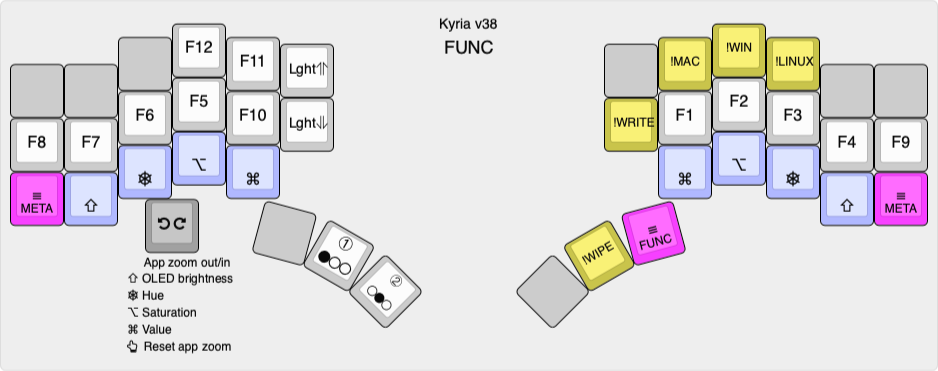
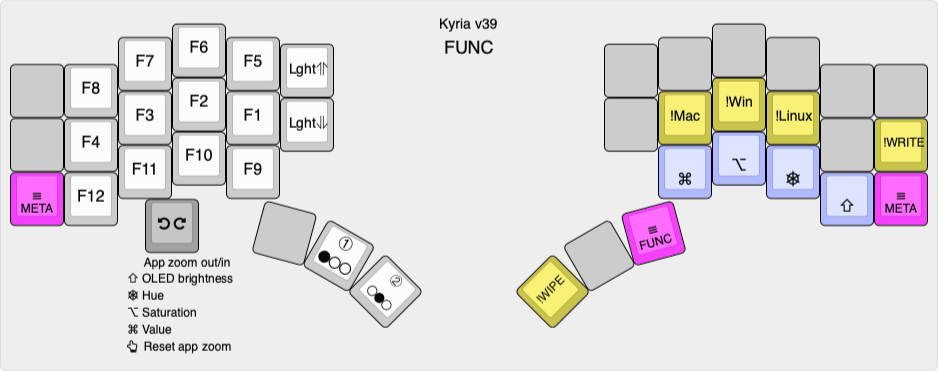
Revised SYMS and FUNC layers

diff --git a/kyria-rsthd-prime/keymap.c b/kyria-rsthd-prime/keymap.c
@@ -63,7 +63,7 @@ const uint16_t PROGMEM keymaps[][MATRIX_ROWS][MATRIX_COLS] = {
  ,-----------------------------------------.                        ,-----------------------------------------.
  | `  ~ |   +  | (  [ |   *  | )  ] |   $  |                        |      | Paste| Copy |  Cut |  All |   #  |
  |------+------+------+------+------+------|                        |------+------+------+------+------+------|
- | 8    | 7  ^ | 6  { | 5  % | 0  } | @  & |                        |  Tab | 1    | 2    | 3    | 4    | 9    |
+ | 9    | 4  ^ | 3  { | 2  % | 1  } | @  & |                        |  Tab | 0    | 5    | 6    | 7    | 8    |
  |------+------+------+------+------+------'                        `------+------+------+------+------+------|
  |   =  |   -  | <  | |   /  | >  ! |                                      |      |      |      |      |  ../ |
  |      |      |      |      |      |                                      |  Cmd |  Alt | Ctrl | Shift|      |
@@ -78,12 +78,12 @@ const uint16_t PROGMEM keymaps[][MATRIX_ROWS][MATRIX_COLS] = {
     [SYMS] = KEY_LAYOUT_stack(
         /* Left hand */
         KC_GRV,      KC_PLUS,       CU_LPRN,  KC_ASTR,       CU_RPRN,  KC_DLR,
-        CU_8,        CU_7,          CU_6,     CU_5,          CU_0,     CU_AT_AMP,
+        CU_9,        CU_4,          CU_3,     CU_2,          CU_1,     CU_AT_AMP,
         CU_EQL_EQL,  CU_MINS_MINS,  CU_LT,    CU_SLSH_SLSH,  CU_GT,
 
         /* Right hand */
                   ___X___,  SC_PASTE,  SC_COPY,  SC_CUT,   SC_SELECT_ALL,  KC_HASH,
-                  KC_TAB,   CU_1,      CU_2,     CU_3,     CU_4,           CU_9,
+                  KC_TAB,   CU_0,      CU_5,     CU_6,     CU_7,           CU_8,
                             KC_RGUI,   KC_RALT,  KC_RCTL,  CU_SHIFT,       CU_DIRUP,
 
         /* Thumbs */
@@ -92,7 +92,6 @@ const uint16_t PROGMEM keymaps[][MATRIX_ROWS][MATRIX_COLS] = {
         /* Encoder button */
         ___X___
     ),
-
 
 /* EDIT
  
@@ -171,33 +170,33 @@ const uint16_t PROGMEM keymaps[][MATRIX_ROWS][MATRIX_COLS] = {
 /* FUNC
 
  ,-----------------------------------------.                        ,-----------------------------------------.
- |      |      |      |  F12 |  F11 |LghtUp|                        |      | !Mac | !Win |!Linux|      |
+ |      |  F8  |  F7  |  F6  |  F5  |LghtUp|                        |      |      |      |      |      |      |
  |------+------+------+------+------+------|                        |------+------+------+------+------+------|
- |  F8  |  F7  |  F6  |  F5  |  F10 |LghtDn|                        |!WRITE|  F1  |  F2  |  F3  |  F4  |  F9  |
+ |      |  F4  |  F3  |  F2  |  F1  |LghtDn|                        |      | !Mac | !Win |!Linux|      |!WRITE|
  |------+------+------+------+------+------'                        `------+------+------+------+------+------|
- |      |      |      |      |      |                                      |      |      |      |      |      |
- | (**) | Shift| Ctrl |  Alt |  Cmd |                                      |  Cmd |  Alt | Ctrl | Shift| (**) |
+ |      |  F12 |  F11 |  F10 |  F9  |                                      |      |      |      |      |      |
+ | (**) |      |      |      |      |                                      |  Cmd |  Alt | Ctrl | Shift| (**) |
  `----------------------------------'                                      `----------------------------------'
 
  .                 ,------.      ,--------------------.  ,--------------------.
- .                 |  Z0  |      |      | Btn1 | Btn2 |  |      | !WIPE|      |
+ .                 |  Z0  |      |      | Btn1 | Btn2 |  | !WIPE|      |      |
  .                 |      |      |      |      |      |  |      |      | (**) |
  .                 `------'      `--------------------'  `--------------------'
  */
 
     [FUNC] = KEY_LAYOUT_stack(
         /* Left hand */
-        ___X___,  ___X___,   ___X___,  KC_F12,   KC_F11,  CU_LGHTUP,
-        KC_F8,    KC_F7,     KC_F6,    KC_F5,    KC_F10,  CU_LGHTDN,
-        _______,  CU_SHIFT,  KC_LCTL,  KC_LALT,  KC_LGUI,
+        ___X___,  KC_F8,     KC_F7,    KC_F6,    KC_F5,  CU_LGHTUP,
+        ___X___,  KC_F4,     KC_F3,    KC_F2,    KC_F1,  CU_LGHTDN,
+        _______,  KC_F12,    KC_F11,   KC_F10,   KC_F9,
 
         /* Right hand */
-                 ___X___,   CU_MACOS,  CU_WINDOWS,  CU_LINUX,  ___X___,   ___X___,
-                 CU_WRITE,  KC_F1,     KC_F2,       KC_F3,     KC_F4,     KC_F9,
+                 ___X___,   ___X___,    ___X___,    ___X___,   ___X___,   ___X___,
+                 ___X___,   CU_MACOS,  CU_WINDOWS,  CU_LINUX,  ___X___,   CU_WRITE,
                             KC_RGUI,   KC_RALT,     KC_RCTL,   CU_SHIFT,  _______,
 
         /* Thumbs */
-        _______, CM_BTN1, CM_BTN2,   ___X___, CU_WIPE, _______,
+        _______, CM_BTN1, CM_BTN2,   CU_WIPE, ___X___, _______,
 
         /* Encoder button */
         SC_APP_ZOOM_RESET
@@ -209,23 +208,23 @@ const uint16_t PROGMEM keymaps[][MATRIX_ROWS][MATRIX_COLS] = {
  ,-----------------------------------------.                        ,-----------------------------------------.
  |      |      |      |      |      |      |                        |      | SL23 | SnapT| SR23 | ZmIn |      |
  |------+------+------+------+------+------|                        |------+------+------+------+------+------|
- |      | SSApp| SSScr| SSWin| SSRgn|      |                        |      | SnapL| SnapC| SnapR| ZmOut|      |
+ |!WRITE| SSApp| SSScr| SSWin| SSRgn|      |                        |      | SnapL| SnapC| SnapR| ZmOut|      |
  |------+------+------+------+------+------'                        `------+------+------+------+------+------|
  |      |      |      |      |      |                                      | SL14 | SnapB| SR14 |  Zm0 |      |
  | (**) | Shift| Ctrl |  Alt |  Cmd |                                      |      |      |      |      | (**) |
- `----------------------------------'                                       `----------------------------------'
+ `----------------------------------'                                      `----------------------------------'
 
  .                 ,------.      ,--------------------.  ,--------------------.
- .                 |      |      |      |      |      |  |      | Btn1 | Btn2 |
+ .                 |      |      |      |      | !WIPE|  |      | Btn1 | Btn2 |
  .                 |      |      | (**) |      |      |  |      |      |      |
  .                 `------'      `--------------------'  `--------------------'
  */
 
     [SNAP] = KEY_LAYOUT_stack(
         /* Left hand */
-        ___X___, ___X___,           ___X___,              ___X___,        ___X___,        ___X___,
-        ___X___, SC_SCREENSHOT_APP, SC_SCREENSHOT_SCREEN, CU_SCRSHOT_WIN, CU_SCRSHOT_RGN, ___X___,
-        _______, CU_SHIFT,          KC_LCTL,              KC_LALT,        KC_LGUI,
+        ___X___,  ___X___,           ___X___,              ___X___,        ___X___,        ___X___,
+        CU_WRITE, SC_SCREENSHOT_APP, SC_SCREENSHOT_SCREEN, CU_SCRSHOT_WIN, CU_SCRSHOT_RGN, ___X___,
+        _______,  CU_SHIFT,          KC_LCTL,              KC_LALT,        KC_LGUI,
 
          /* Right hand */
                  ___X___,  SC_SNAP_LEFTTWOTHIRDS, SC_SNAP_TOP,          SC_SNAP_RIGHTTWOTHIRDS, SC_APP_ZOOM_IN,    ___X___,
@@ -233,7 +232,7 @@ const uint16_t PROGMEM keymaps[][MATRIX_ROWS][MATRIX_COLS] = {
                            SC_SNAP_LEFTQUARTER,   SC_SNAP_BOTTOM,       SC_SNAP_RIGHTQUARTER,   SC_APP_ZOOM_RESET, _______,
 
         /* Thumbs */
-        _______, ___X___, ___X___,   ___X___, CM_BTN1, CM_BTN2,
+        _______, ___X___, CU_WIPE,   ___X___, CM_BTN1, CM_BTN2,
 
         /* Encoder button */
         ___X___

diff --git a/common/shift_defs.h b/common/shift_defs.h
@@ -23,14 +23,14 @@
 
 // Numbers with custom punctuation
 //
-DEFINE_SHIFT( CU_0, KC_0, KC_RCBR )
-DEFINE_SHIFT( CU_1, KC_1, KC_1 )
-DEFINE_SHIFT( CU_2, KC_2, KC_2 )
-DEFINE_SHIFT( CU_3, KC_3, KC_3 )
-DEFINE_SHIFT( CU_4, KC_4, KC_4 )
-DEFINE_SHIFT( CU_5, KC_5, KC_PERC )
-DEFINE_SHIFT( CU_6, KC_6, KC_LCBR )
-DEFINE_SHIFT( CU_7, KC_7, KC_CIRC )
+DEFINE_SHIFT( CU_0, KC_0, KC_0 )
+DEFINE_SHIFT( CU_1, KC_1, KC_RCBR )
+DEFINE_SHIFT( CU_2, KC_2, KC_PERC )
+DEFINE_SHIFT( CU_3, KC_3, KC_LCBR )
+DEFINE_SHIFT( CU_4, KC_4, KC_CIRC )
+DEFINE_SHIFT( CU_5, KC_5, KC_5 )
+DEFINE_SHIFT( CU_6, KC_6, KC_6 )
+DEFINE_SHIFT( CU_7, KC_7, KC_7 )
 DEFINE_SHIFT( CU_8, KC_8, KC_8 )
 DEFINE_SHIFT( CU_9, KC_9, KC_9 )
 
@@ -40,11 +40,11 @@ DEFINE_SHIFT( CU_COMMA_QUES,   KC_COMM, KC_QUES )
 DEFINE_SHIFT( CU_BSPC_DEL,     KC_BSPC, KC_DEL )
 
 // Custom punctuation pairs on syms layer
-DEFINE_SHIFT( CU_LPRN,      KC_LPRN, KC_LBRC )
-DEFINE_SHIFT( CU_RPRN,      KC_RPRN, KC_RBRC )
-DEFINE_SHIFT( CU_LT, KC_LABK,   KC_PIPE )
-DEFINE_SHIFT( CU_GT, KC_RABK,   KC_EXLM )
-DEFINE_SHIFT( CU_AT_AMP,    KC_AT,   KC_AMPR )
+DEFINE_SHIFT( CU_LPRN,   KC_LPRN, KC_LBRC )
+DEFINE_SHIFT( CU_RPRN,   KC_RPRN, KC_RBRC )
+DEFINE_SHIFT( CU_LT,     KC_LABK, KC_PIPE )
+DEFINE_SHIFT( CU_GT,     KC_RABK, KC_EXLM )
+DEFINE_SHIFT( CU_AT_AMP, KC_AT,   KC_AMPR )
 
 // Keys that are the same whether shifted or not
 DEFINE_SHIFT( CU_DOT_DOT,    KC_DOT,  KC_DOT )

diff --git a/kyria-rsthd-prime/README.md b/kyria-rsthd-prime/README.md
@@ -51,7 +51,9 @@ Typing speed and reducing the number of keys on the keyboard are not important g
 
 ### Keyboard configuration
 
-My Kyria uses all 6 columns on each hand. However, the lower inner column keys are absent. There are three thumb keys on each side. The left side has an OLED. Either side can take an encoder, but the right side is slightly more functional. (The encoder seems like a great idea but in practice I find that I mostly use it for adjusting the lighting, as for other functions it's usually quicker to just use keys; I could certainly live without it.)
+My Kyria uses all 6 columns on each hand. However, the lower inner column keys are absent. There are three thumb keys on each side. The left side has an OLED.
+
+Either side can take an encoder. The screenshots and description below mostly assume it is on the left, but a right-side encoder works, and would usually be used with the "opposite" layer (EDIT instead of SYMS, SNAP instead of FUNC). In practice, I find that I mostly use the encoder for adjusting keyboard lighting; for most other functions it's quicker to just use keys and I could certainly live without it.
 
 ### Features
 
@@ -102,6 +104,8 @@ Since v37, E and Space have swapped hands relative to their RSTHD positions. Thi
 
 Since v39, R and D have swapped locations compared to RSTHD. Having R on the index finger gives a lot of inward rolls, but also creates a lot of SFBs on that finger. I've addressed this with comborolls; even so, there are about the same number as the previous version.
 
+The encoder is used to adjust volume and screen brightness.
+
 ## Other layers
 
 There are five more layers, for a total of 6. All are hold-to-activate. The shift keys in these layers are *not* auto-off. In v38, the "handedness" of most of these layers was reversed i.e. they were mostly mirror-imaged. 
@@ -112,7 +116,7 @@ Activated by the right thumb.
 
 ![kyria-rsthd-prime-syms](docs/images/kyria-rsthd-prime-syms.png)
 
-[KLE link](http://www.keyboard-layout-editor.com/#/gists/1320c291327964f5a62b71087b0907d4)
+[KLE link](http://www.keyboard-layout-editor.com/#/gists/79cdc8e9c4547b0f7eda47791328a3a8)
 
 Numbers and punctuation are combined on one layer. Numbers are along the home row and punctuation is mostly arranged on the left hand. If only one character shown, it is output regardless of Shift.
 
@@ -121,6 +125,8 @@ The punctuation is arranged so that common (for me) two-letter sequences are an 
 Cut, copy and paste shortcuts are along the right hand top row.
 
 This layer works much better than pre-v38 versions that used a numpad layout in "Programmer Dvorak" style (numbers accessed with shift).
+
+The encoder is used for history scrubbing.
 
 ### EDIT
 
@@ -143,6 +149,8 @@ All actions have auto-repeat. You can change the special modifiers while holding
 
 Cut, copy and paste shortcuts are along the left hand top row. Shortcuts for window and desktop navigation are scattered around the edges.
 
+If there is an encoder on the right side, holding one of the custom modifiers and rotating the encoder does "fast editing". (In practice though, I never use this.)
+
 ### META
 Activated by either pinky.
 
@@ -154,17 +162,19 @@ This layer contains common shortcuts, mostly arranged according to the letter us
 
 This layer also contains media control keys and the keys to access the FUNC and SNAP layers.
 
+The encoder is used for forward and backward search.
+
 ### FUNC
 
 Activated by the right thumb from the META layer.
 
 ![kyria-rsthd-prime-func](docs/images/kyria-rsthd-prime-func.png)
 
-[KLE link](http://www.keyboard-layout-editor.com/#/gists/73bd011d1e75479761ce9c6aa4777ea4)
+[KLE link](http://www.keyboard-layout-editor.com/#/gists/d92e0106ea3488121c06071fa5cf543a)
 
-This layer contains function keys arranged roughly the same as the numbers on the SYMS layer. It also contains the keys that switch between macOS, Windows and Linux shortcuts.
+This layer contains function keys on the left hand and mouse buttons on the left thumb. It also contains the keys that switch between macOS, Windows and Linux shortcuts.
 
-The encoder is used to adjust the OLED brightness and the backlight/per-key LEDs, depending on which modifier is held.
+The encoder is used to adjust the OLED brightness and the backlight/per-key LEDs, depending on which modifier is held. There are also two keys on the left hand for this, in case there is no encoder.
 
 ### SNAP
 
@@ -172,11 +182,11 @@ Activated by the left thumb from the META layer.
 
 ![kyria-rsthd-prime-snap](docs/images/kyria-rsthd-prime-snap.png)
 
-[KLE link](http://www.keyboard-layout-editor.com/#/gists/815a6d29c23fbe01ef7c1ce0e7f0e00b)
+[KLE link](http://www.keyboard-layout-editor.com/#/gists/9384b760732a7f55a02fbe9f45dd58e4)
 
 So called because of the keys for window snapping, which snap the active window to various locations on the screen. This works on macOS if [Rectangle Pro](https://rectangleapp.com) is running; it is not working at all on Windows and Linux yet.
 
-It also contains shortcuts for screenshots and for window zooming.
+It also contains shortcuts for screenshots and for window zooming, as well as mouse buttons.
 
 ## Backmatter
 
